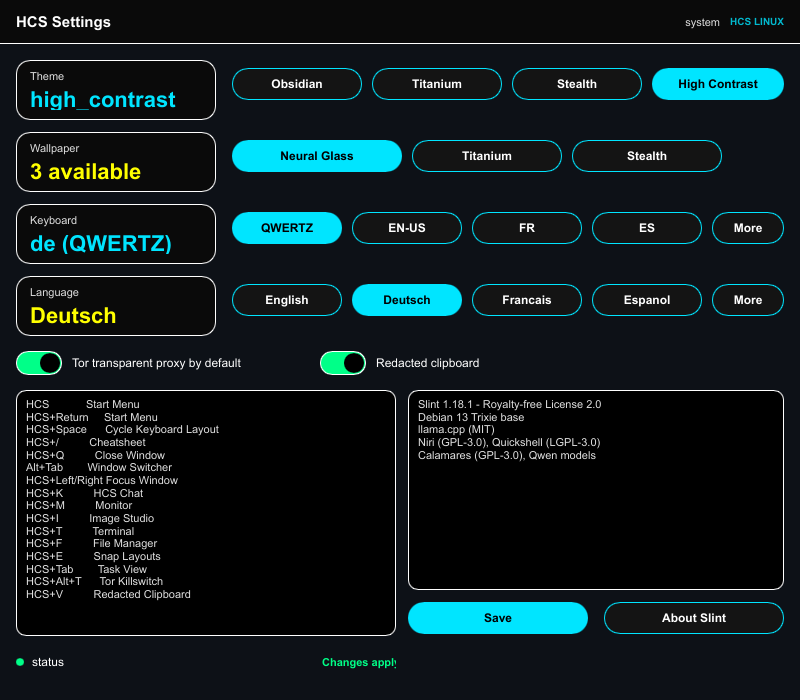
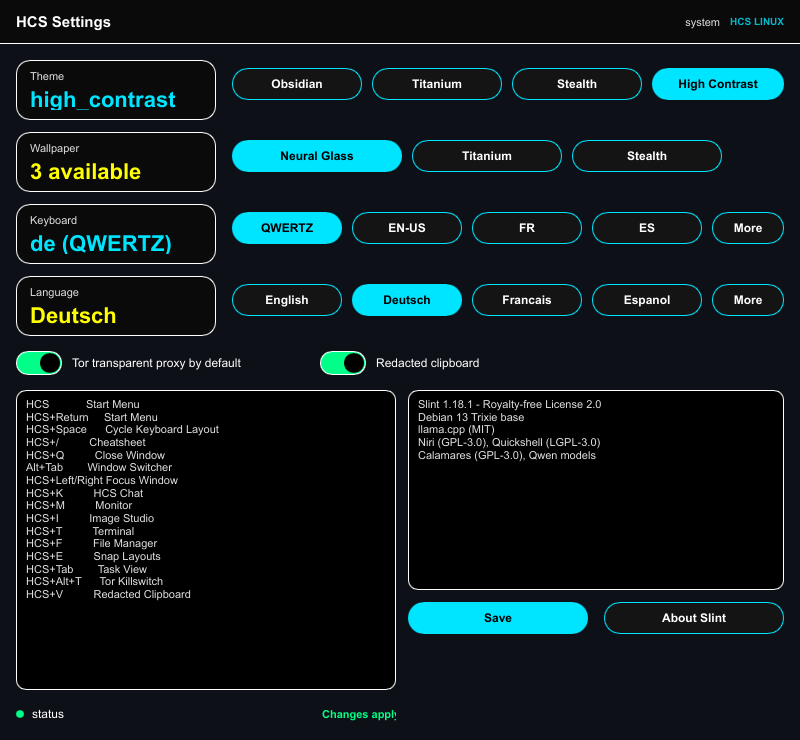
fix(gui): reference images were cropped, and the Linux set was missing
Reviewing the Linux frames caught two things the gate had been scoring as
passes.

The Settings window's shortcut list was clipped. Slint overflows silently, so a
16-row list in a box sized for 14 rendered as a truncated list, and the
blank-frame check cannot tell a complete UI from a cropped one. The box is now
sized for the list, the window is 800x740, the render spec follows, and
LogView pins its text to the top so overflow is at least visible.

The Linux reference set is committed, captured from a real CI run rather than
guessed. Until it exists the regression step is a warning and a neutral job,
not a red one, and it prints the exact command to establish the baseline. It
is not a pass: the report says "no reference set" and says which platform it
wanted.

diff --git a/src/hcs-gui-shots/src/main.rs b/src/hcs-gui-shots/src/main.rs
@@ -98,7 +98,7 @@ const SPECS: &[Spec] = &[
         // reference image was a cropped window: the LayoutError branch never
         // fired, so the gate passed while showing half a settings page.
         width: 800,
-        height: 700,
+        height: 740,
     },
 ];
 
